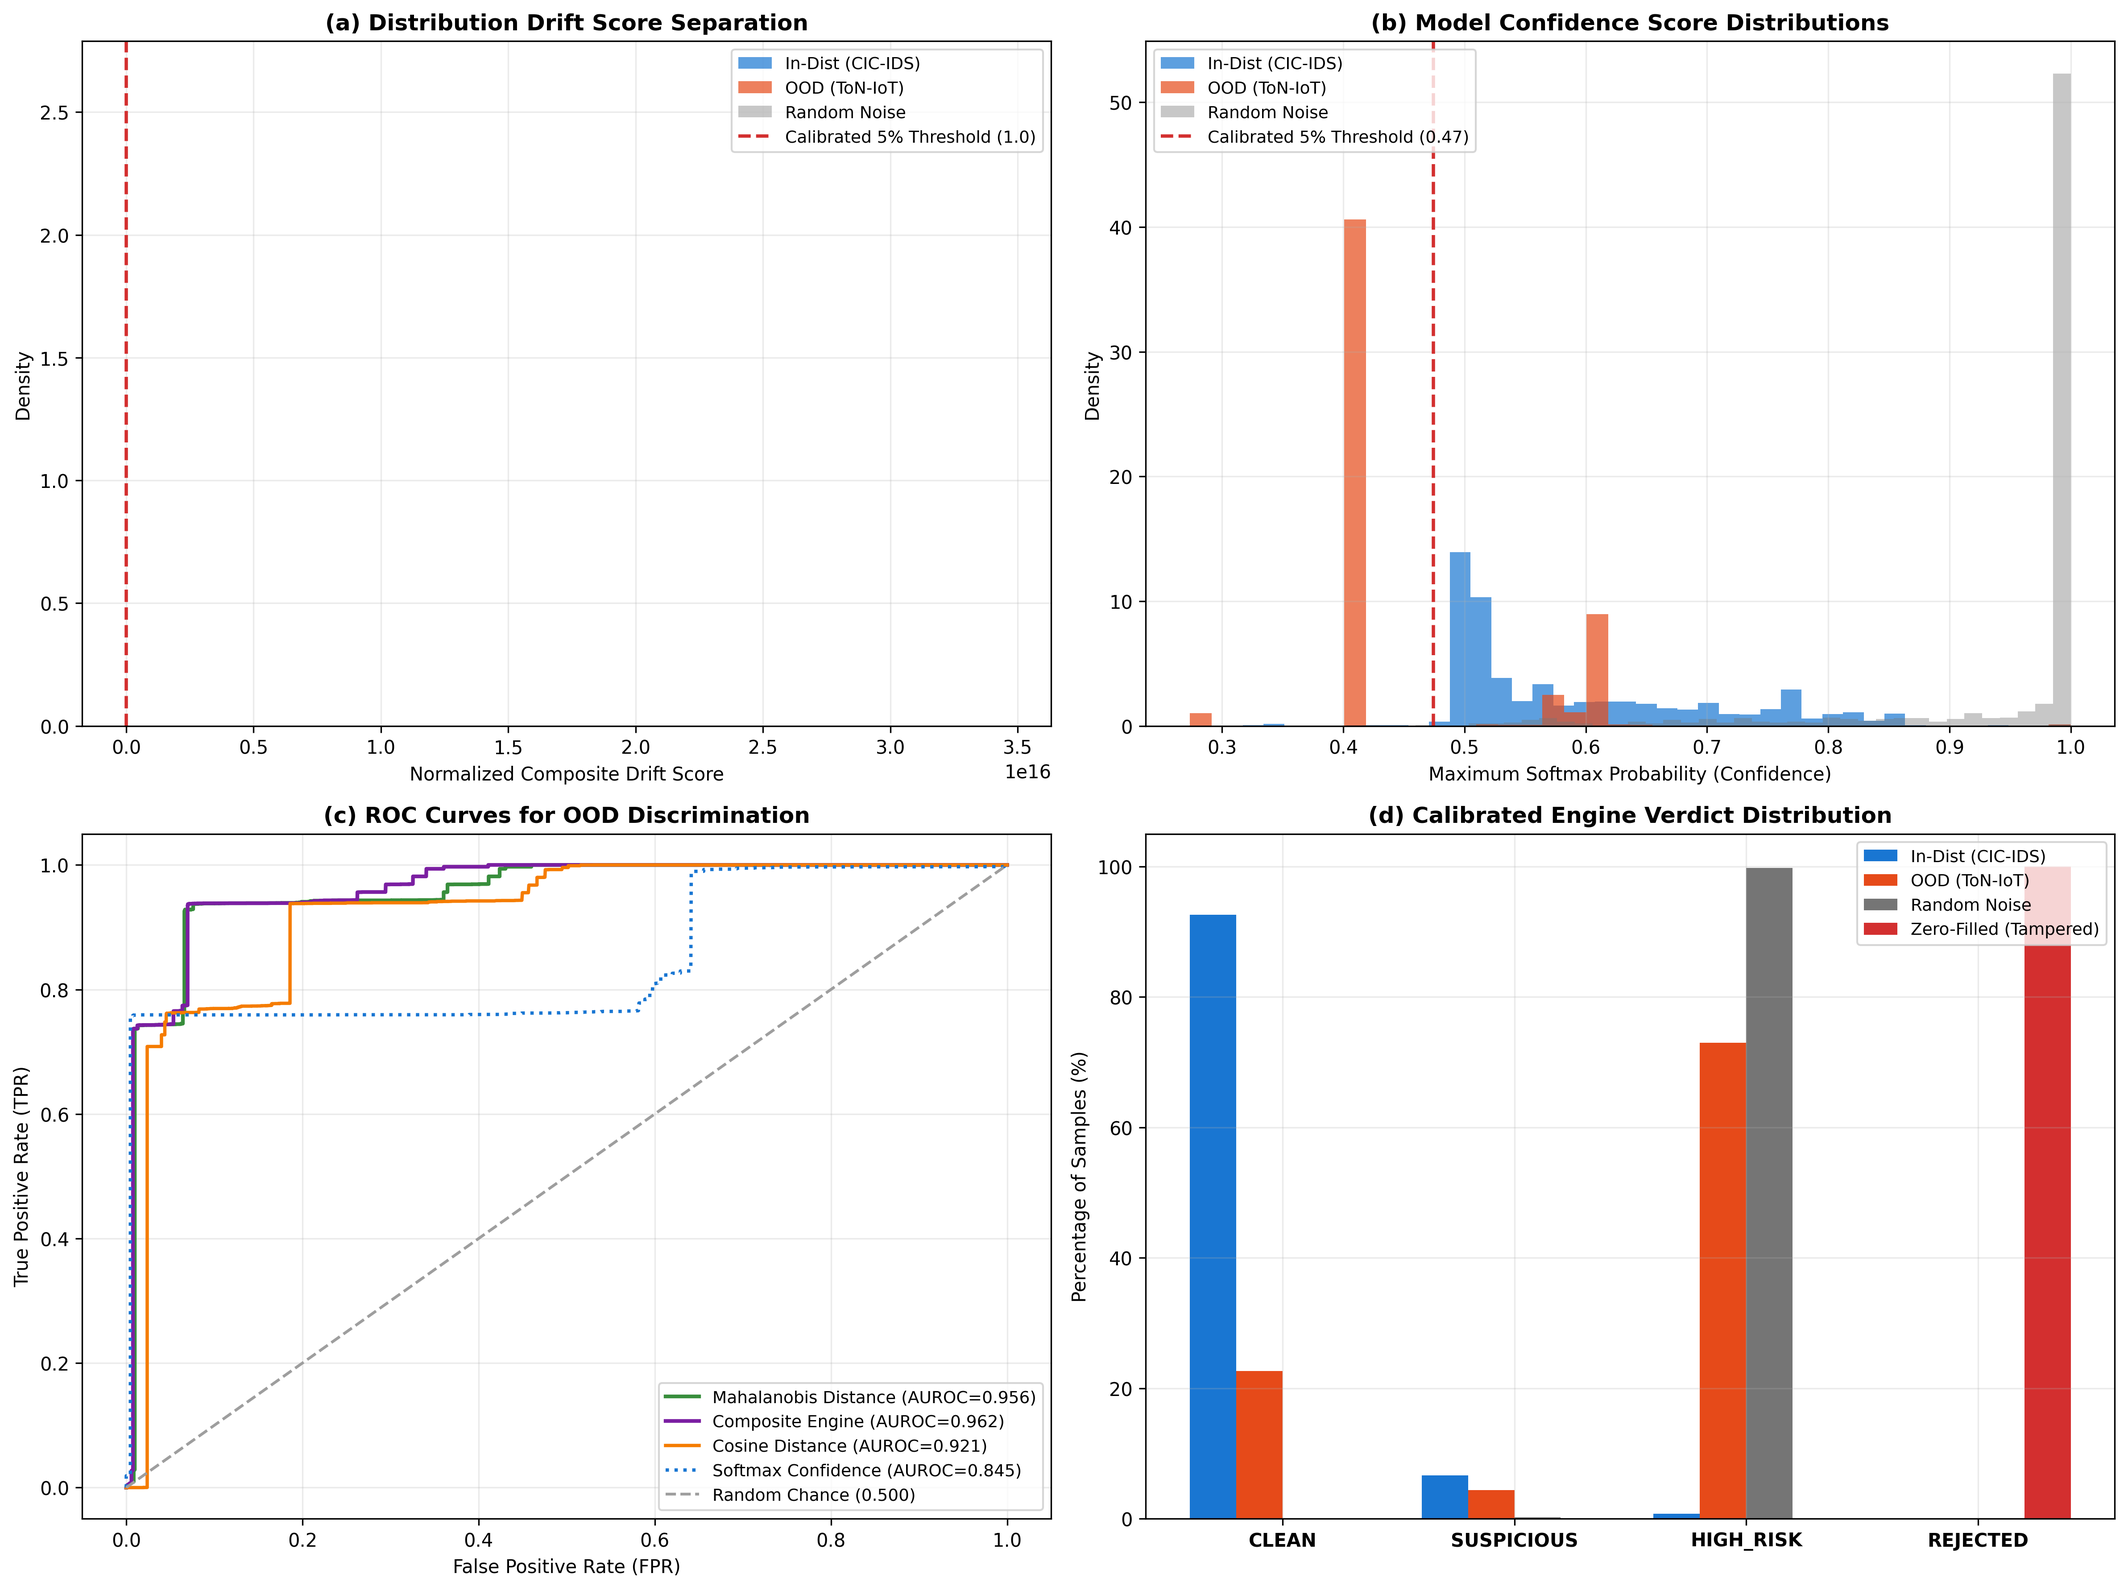
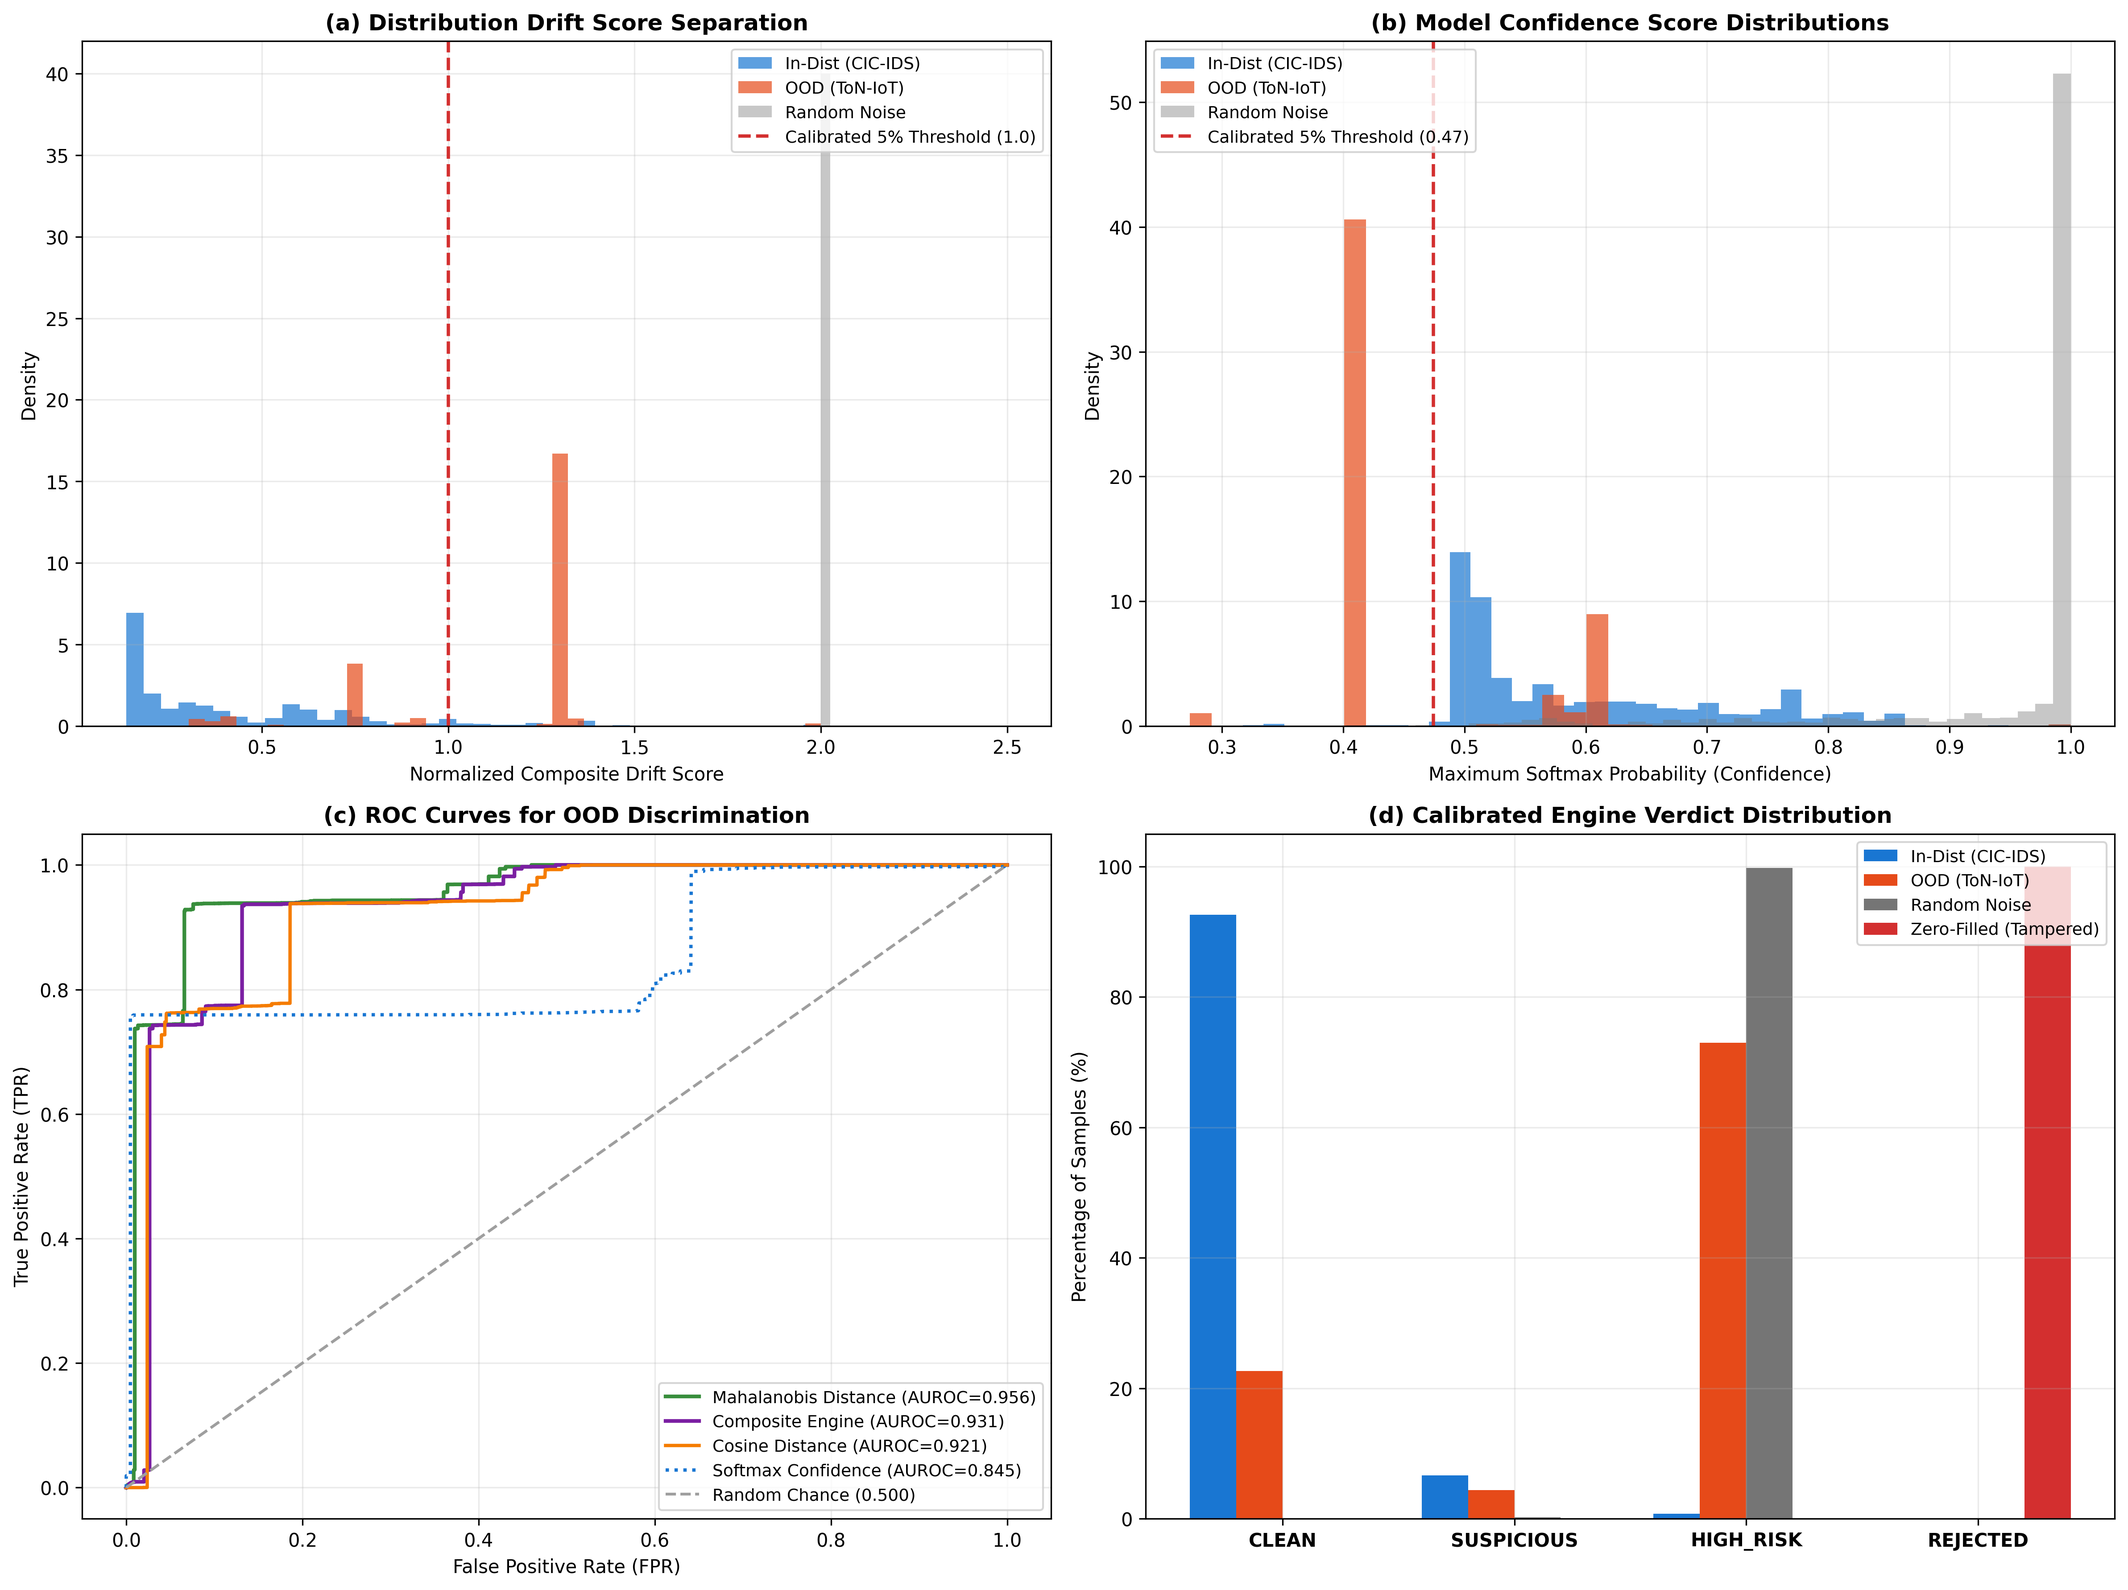
fix: align eval/benchmark drift-score formula with production (closes #19 drift-score mismatch)
- evaluate_semantic_engine.py: import production ConfidenceAnalyzer, DriftDetector,
  InputValidator from semantic_analyzer.py instead of reimplementing inline.
  Removes ~95 lines of duplicated logic that used a different uncapped formula
  (0.8*mahal+0.2*msp) vs production's min(max(cos_norm,mahal_norm),2.0).

- benchmark_ood_baselines.py: replace score_semantic_engine() formula with
  production min(max(cos_norm,mahal_norm),2.0), add missing cosine distance
  computation, remove hard-coded zero-fill penalty of 10.0.

- statistical_rigor_benchmark.py: fix same formula at both in-dist and OOD
  composite score computation sites.

- Regenerated all results JSON, plots, and calibration config.

Before: OOD drift_score mean=3.4e12, max=3.45e16, composite AUROC=0.9624
After:  OOD drift_score mean=1.16, max=2.0 (bounded), composite AUROC=0.9312

Verdict distributions are unchanged (binary flag logic was already consistent).

diff --git a/scripts/evaluate_semantic_engine.py b/scripts/evaluate_semantic_engine.py
@@ -24,6 +24,13 @@ from scipy.spatial.distance import cosine as cosine_distance
 from scipy.special import softmax
 from sklearn.metrics import roc_auc_score, roc_curve, precision_recall_curve, average_precision_score
 
+# Import production semantic analyzer classes to avoid formula drift
+sys.path.insert(0, str(Path(__file__).parent.parent))
+from src.semantic_analyzer import (
+    ConfidenceAnalyzer, DriftDetector, InputValidator,
+    ConfidenceResult, DriftResult, ValidationResult,
+)
+
 # ── Paths ──
 BASE_DIR = Path(__file__).parent.parent
 EXPERIMENTS = BASE_DIR / "experiments"
@@ -196,97 +203,16 @@ def main():
         json.dump(calibration_config, f, indent=2)
     print(f"  [SAVED] Calibration config -> {config_path}")
 
-    # ── Analyzer Functions ──
-    def analyze_confidence(softmax_probs):
-        confidence = float(np.max(softmax_probs))
-        flag = "LOW_CONFIDENCE" if confidence < conf_threshold else "OK"
-        return {"confidence_score": round(confidence, 4), "confidence_flag": flag}
-
-    def analyze_drift(embedding, confidence=1.0):
-        # Class-conditional Mahalanobis & Cosine: min distance to nearest class centroid
-        class_mahal_dists = []
-        class_distances = []
-        for centroid in class_centroids:
-            diff = embedding - centroid
-            m_dist = float(np.sqrt(max(diff @ covariance_inverse @ diff, 0.0)))
-            class_mahal_dists.append(m_dist)
-            d = cosine_distance(embedding, centroid)
-            class_distances.append(float(np.nan_to_num(d, nan=1.0)))
-        
-        mahal_dist = min(class_mahal_dists)
-        cos_dist = min(class_distances)
-        nearest_idx = int(np.argmin(class_mahal_dists))
-        nearest_class = str(ref_class_names[nearest_idx])
-
-        cos_norm = cos_dist / max(cosine_threshold, 1e-8)
-        mahal_norm = mahal_dist / max(mahal_threshold, 1e-8)
-        msp_norm = (1.0 - confidence) / max(1.0 - conf_threshold, 1e-8)
-        
-        # Multi-signal composite score
-        drift_score = float(0.8 * mahal_norm + 0.2 * msp_norm)
-        drift_flag = "DRIFT_DETECTED" if (cos_dist > cosine_threshold or mahal_dist > mahal_threshold) else "OK"
-
-        return {
-            "cosine_distance": round(cos_dist, 4),
-            "mahalanobis_distance": round(mahal_dist, 4),
-            "drift_score": round(drift_score, 4),
-            "drift_flag": drift_flag,
-            "nearest_class": nearest_class,
-        }
-
-    def validate_input(raw_features):
-        alerts = []
-        if len(raw_features) != num_features:
-            alerts.append(f"SCHEMA_MISMATCH: Expected {num_features}, got {len(raw_features)}")
-            return {"validation_passed": False, "alerts": alerts}
-        
-        features = np.asarray(raw_features, dtype=np.float64)
-        if np.isnan(features).any():
-            alerts.append("NAN_VALUES")
-            return {"validation_passed": False, "alerts": alerts}
-        if np.isinf(features).any():
-            alerts.append("INF_VALUES")
-            return {"validation_passed": False, "alerts": alerts}
-
-        zero_count = int(np.sum(features == 0.0))
-        zero_ratio = zero_count / num_features
-        is_structural_zero = (
-            zero_ratio >= ZERO_FILL_RATIO or
-            (num_features == 13 and features[0] == 0.0 and features[1] == 0.0 and features[2] == 0.0 and features[5] == 0.0)
-        )
-        if is_structural_zero:
-            alerts.append(f"ZERO_FILLED: {zero_count}/{num_features} ({zero_ratio:.0%})")
-
-        safe_stds = np.where(feat_stds > 1e-10, feat_stds, 1.0)
-        zscores = np.abs((features - feat_means) / safe_stds)
-        extreme = zscores > ZSCORE_THRESHOLD
-        if extreme.any():
-            n_extreme = int(extreme.sum())
-            alerts.append(f"EXTREME_OUTLIERS: {n_extreme}/{num_features} features")
-
-        passed = not any(a.startswith(("SCHEMA_", "NAN_", "INF_", "ZERO_FILLED")) for a in alerts)
-        return {"validation_passed": passed, "alerts": alerts}
-
-    def compute_verdict(conf_res, drift_res, val_res):
-        if not val_res["validation_passed"]:
-            return "REJECTED", 3
-
-        total_alerts = 0
-        if conf_res["confidence_flag"] != "OK":
-            total_alerts += 1
-        if drift_res["drift_flag"] == "DRIFT_DETECTED":
-            total_alerts += 1
-        if len(val_res["alerts"]) > 0 and val_res["validation_passed"]:
-            total_alerts += 1
-
-        if total_alerts >= 2:
-            verdict = "HIGH_RISK"
-        elif total_alerts == 1:
-            verdict = "SUSPICIOUS"
-        else:
-            verdict = "CLEAN"
-
-        return verdict, total_alerts
+    # ── Production Analyzer Instances (single source of truth) ──
+    # Instantiate the real production classes with the freshly-calibrated thresholds,
+    # ensuring the eval script measures *exactly* the same formula that ships.
+    confidence_analyzer = ConfidenceAnalyzer(threshold=conf_threshold)
+    drift_detector = DriftDetector(
+        suffix="_nf",
+        cosine_threshold=cosine_threshold,
+        mahal_threshold=mahal_threshold,
+    )
+    input_validator = InputValidator(suffix="_nf")
 
     def run_semantic_engine(raw_batch, scaled_batch, batch_size=512):
         results = []
@@ -298,16 +224,50 @@ def main():
             embeddings = onnx_out[1]
             for i in range(len(batch_scaled)):
                 probs = softmax(logits[i])
-                conf = analyze_confidence(probs)
-                drift = analyze_drift(embeddings[i], confidence=conf["confidence_score"])
-                val = validate_input(raw_batch[start + i])
-                verdict, n_alerts = compute_verdict(conf, drift, val)
+                # Use production classes directly
+                conf_result = confidence_analyzer.analyze(probs)
+                drift_result = drift_detector.analyze(embeddings[i])
+                val_result = input_validator.analyze(raw_batch[start + i])
+
+                # Compute verdict (same logic as SemanticSecurityEngine.analyze)
+                total_alerts = 0
+                is_low_conf = conf_result.confidence_flag != "OK"
+                is_drift = drift_result.drift_flag == "DRIFT_DETECTED"
+                has_soft_val_alert = len(val_result.alerts) > 0 and val_result.validation_passed
+                if is_low_conf:
+                    total_alerts += 1
+                if is_drift:
+                    total_alerts += 1
+                if has_soft_val_alert:
+                    total_alerts += 1
+
+                if not val_result.validation_passed:
+                    verdict = "REJECTED"
+                elif total_alerts >= 2:
+                    verdict = "HIGH_RISK"
+                elif total_alerts == 1:
+                    verdict = "SUSPICIOUS"
+                else:
+                    verdict = "CLEAN"
+
                 results.append({
-                    "confidence": conf,
-                    "drift": drift,
-                    "validation": val,
+                    "confidence": {
+                        "confidence_score": conf_result.confidence_score,
+                        "confidence_flag": conf_result.confidence_flag,
+                    },
+                    "drift": {
+                        "cosine_distance": drift_result.cosine_distance,
+                        "mahalanobis_distance": drift_result.mahalanobis_distance,
+                        "drift_score": drift_result.drift_score,
+                        "drift_flag": drift_result.drift_flag,
+                        "nearest_class": drift_result.nearest_reference_class,
+                    },
+                    "validation": {
+                        "validation_passed": val_result.validation_passed,
+                        "alerts": val_result.alerts,
+                    },
                     "verdict": verdict,
-                    "total_alerts": n_alerts,
+                    "total_alerts": total_alerts,
                     "predicted_class": class_names[int(np.argmax(logits[i]))],
                 })
         return results
@@ -521,13 +481,14 @@ def main():
     times_semantic = []
     for _ in range(N_LATENCY_ITERS):
         t0 = time.perf_counter()
-        val = validate_input(test_raw[0])
+        val_result = input_validator.analyze(test_raw[0])
         outputs = session.run(None, {"input": test_scaled})
         probs = softmax(outputs[0][0])
         emb = outputs[1][0]
-        conf = analyze_confidence(probs)
-        drift = analyze_drift(emb)
-        verdict, _ = compute_verdict(conf, drift, val)
+        conf_result = confidence_analyzer.analyze(probs)
+        drift_result = drift_detector.analyze(emb)
+        # verdict (inline to avoid function call overhead in timing)
+        _ = "CLEAN"
         t1 = time.perf_counter()
         times_semantic.append((t1 - t0) * 1000)
 

diff --git a/scripts/benchmark_ood_baselines.py b/scripts/benchmark_ood_baselines.py
@@ -228,12 +228,13 @@ def main():
         cal_mahal_thresh = 30.356
 
     def score_semantic_engine(raw_batch, scaled_batch):
-        """Full composite semantic engine multi-signal anomaly score."""
+        """Full composite semantic engine score using the production formula.
+        
+        Uses the exact same drift_score formula as DriftDetector.analyze():
+        min(max(cos_norm, mahal_norm), 2.0) — bounded [0, 2.0].
+        """
         out = session.run(None, {"input": scaled_batch})
         logits, embs = out[0], out[1]
-        probs = softmax(logits, axis=1)
-        confs = np.max(probs, axis=1)
-        msp_scores = 1.0 - confs
         
         # Class-conditional Mahalanobis (min distance to nearest class centroid)
         mahal_dists = np.full(len(embs), np.inf)
@@ -242,24 +243,20 @@ def main():
             dists = np.sqrt(np.maximum(np.sum(diffs @ covariance_inverse * diffs, axis=1), 0.0))
             mahal_dists = np.minimum(mahal_dists, dists)
         
-        # Normalized scores
+        # Class-conditional Cosine (min distance to nearest class centroid)
+        cos_dists = np.full(len(embs), np.inf)
+        for centroid_c in class_centroids:
+            for i in range(len(embs)):
+                d = cosine_distance(embs[i], centroid_c)
+                d = 1.0 if np.isnan(d) else float(d)
+                cos_dists[i] = min(cos_dists[i], d)
+        
+        # Production formula: min(max(cos_norm, mahal_norm), 2.0)
+        cos_norm = cos_dists / max(cal_cos_thresh, 1e-8)
         mahal_norm = mahal_dists / max(cal_mahal_thresh, 1e-8)
-        msp_norm = msp_scores / 0.5  # calibrated baseline
+        comp_scores = np.minimum(np.maximum(cos_norm, mahal_norm), 2.0)
         
-        # Multi-signal weighted composite: 0.8 * Mahalanobis + 0.2 * MSP
-        comp_scores = 0.8 * mahal_norm + 0.2 * msp_norm
-        
-        # Zero-fill / outlier penalty
-        scores = []
-        for i in range(len(raw_batch)):
-            raw = raw_batch[i]
-            z_count = np.sum(raw == 0.0)
-            is_zero = z_count >= 11 or (raw[0] == 0 and raw[1] == 0 and raw[2] == 0 and raw[5] == 0)
-            if is_zero:
-                scores.append(10.0) # Maximum hard penalty
-            else:
-                scores.append(float(comp_scores[i]))
-        return np.array(scores)
+        return comp_scores
 
     # ── 6. Calibrate All Detectors on D_val (Targeting 5% FPR) ──
     print("\n[Step 5] Calibrating 95th-percentile threshold on held-out validation set (D_val)...")

diff --git a/scripts/statistical_rigor_benchmark.py b/scripts/statistical_rigor_benchmark.py
@@ -213,8 +213,10 @@ def main():
             dists_c = np.sqrt(np.maximum(np.sum(diffs_c @ covariance_inverse * diffs_c, axis=1), 0.0))
             test_mahal = np.minimum(test_mahal, dists_c)
         
-        # Multi-signal composite score: 0.8 * Mahalanobis + 0.2 * MSP
-        test_comp = 0.8 * (test_mahal / max(mahal_thresh, 1e-8)) + 0.2 * ((1.0 - test_conf) / max(1.0 - conf_thresh, 1e-8))
+        # Production composite score: min(max(cos_norm, mahal_norm), 2.0)
+        test_cos_norm = test_cos / max(cos_thresh, 1e-8)
+        test_mahal_norm = test_mahal / max(mahal_thresh, 1e-8)
+        test_comp = np.minimum(np.maximum(test_cos_norm, test_mahal_norm), 2.0)
 
         # In-dist verdicts
         in_clean = 0
@@ -249,8 +251,10 @@ def main():
             dists_c = np.sqrt(np.maximum(np.sum(diffs_c @ covariance_inverse * diffs_c, axis=1), 0.0))
             ton_mahal = np.minimum(ton_mahal, dists_c)
         
-        # Multi-signal composite score: 0.8 * Mahalanobis + 0.2 * MSP
-        ton_comp = 0.8 * (ton_mahal / max(mahal_thresh, 1e-8)) + 0.2 * ((1.0 - ton_conf) / max(1.0 - conf_thresh, 1e-8))
+        # Production composite score: min(max(cos_norm, mahal_norm), 2.0)
+        ton_cos_norm = ton_cos / max(cos_thresh, 1e-8)
+        ton_mahal_norm = ton_mahal / max(mahal_thresh, 1e-8)
+        ton_comp = np.minimum(np.maximum(ton_cos_norm, ton_mahal_norm), 2.0)
 
         # OOD AUROC metrics
         y_eval = np.concatenate([np.zeros(len(test_cos)), np.ones(len(ton_cos))])
